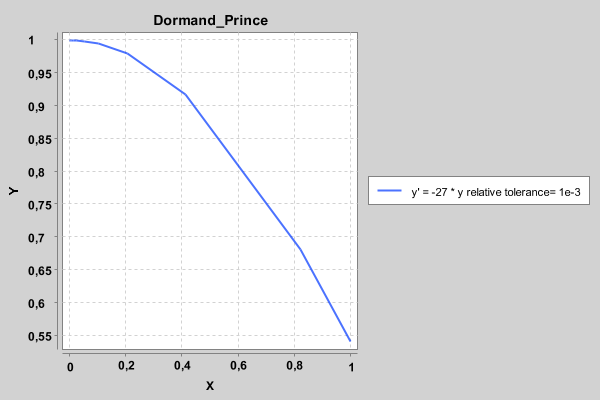
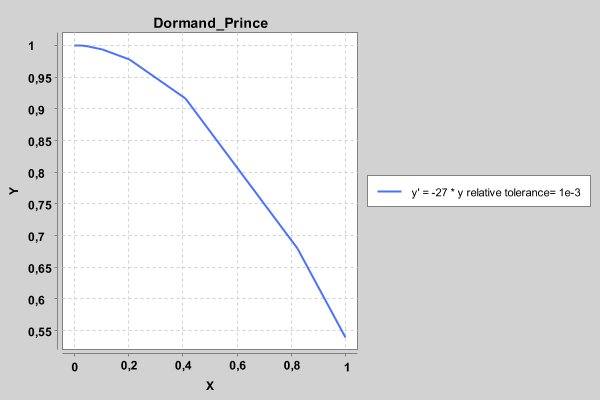
step estimation corrected, new version of xcharts linked

diff --git a/src/rungeKutta/EmbeddedRungeKutta.java b/src/rungeKutta/EmbeddedRungeKutta.java
@@ -145,11 +145,13 @@ public class EmbeddedRungeKutta extends Solver{
 				y_values[s] = lead_y;
 				t_values[s] = t_values[s-1]+h;
 				
-			   //Code from script Melenk
-				 h = Math.max( stepSize_min, 
-							  Math.min( deltaStepsize_max * h, 
-									    propability * Math.pow( (tolerance/estimatedError * Math.pow(h,order) ), order-1) ) );
-			  
+				//Code from script Melenk
+				//step proposal:
+				h = propability * Math.pow( tolerance * (Math.pow(h,order) / estimatedError), 1/(order-1));
+				
+				// apply restrictions:
+			    h = Math.max( stepSize_min, Math.min( deltaStepsize_max,h));
+		
 				//code from matlab ode45
 				/*h = Math.max( stepSize_min, 
 						  			h * Math.max( deltaStepsize_min, 

diff --git a/src/examples/TestsSeries.java b/src/examples/TestsSeries.java
@@ -7,11 +7,11 @@ import rungeKutta.EmbeddedRungeKutta;
 import rungeKutta.RungeKutta;
 import rungeKutta.Solver;
 
-import com.xeiam.xchart.BitmapEncoder;
-import com.xeiam.xchart.BitmapEncoder.BitmapFormat;
-import com.xeiam.xchart.Chart;
-import com.xeiam.xchart.QuickChart;
-import com.xeiam.xchart.SwingWrapper;
+import org.knowm.xchart.BitmapEncoder;
+import org.knowm.xchart.BitmapEncoder.BitmapFormat;
+import org.knowm.xchart.internal.chartpart.Chart;
+import org.knowm.xchart.QuickChart;
+import org.knowm.xchart.SwingWrapper;
 
 import differentialEquations.DifferentialEquation;
 import differentialEquations.Sin_DE;

diff --git a/src/examples/Plot.java b/src/examples/Plot.java
@@ -7,9 +7,11 @@ import java.util.List;
 
 import rungeKutta.Solver;
 
-import com.xeiam.xchart.Chart;
-import com.xeiam.xchart.QuickChart;
-import com.xeiam.xchart.SwingWrapper;
+import org.knowm.xchart.BitmapEncoder;
+import org.knowm.xchart.BitmapEncoder.BitmapFormat;
+import org.knowm.xchart.internal.chartpart.Chart;
+import org.knowm.xchart.QuickChart;
+import org.knowm.xchart.SwingWrapper;
 
 import differentialEquations.DifferentialEquation;
 import differentialEquations.InitialValueProblem;
